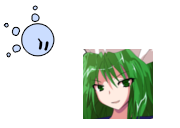
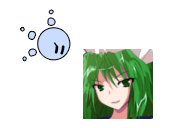
Minor face adjustment

Changed region(s): [[0.0278, 0.0312, 0.4167, 0.5], [0.0, 0.1562, 0.0556, 0.2188]]

diff --git a/mima/files.js b/mima/files.js
@@ -51,7 +51,7 @@
 	"th13/face/pl01/Thumbs.db": null,
 	"th13/face/pl01/face_pl01an.png": 1363210958,
 	"th13/face/pl01/face_pl01bs.png": 3440763977,
-	"th13/face/pl01/face_pl01dp.png": 1818906234,
+	"th13/face/pl01/face_pl01dp.png": 157519685,
 	"th13/face/pl01/face_pl01hp.png": 559294773,
 	"th13/face/pl01/face_pl01n2.png": 1996374936,
 	"th13/face/pl01/face_pl01no.png": 774143031,
